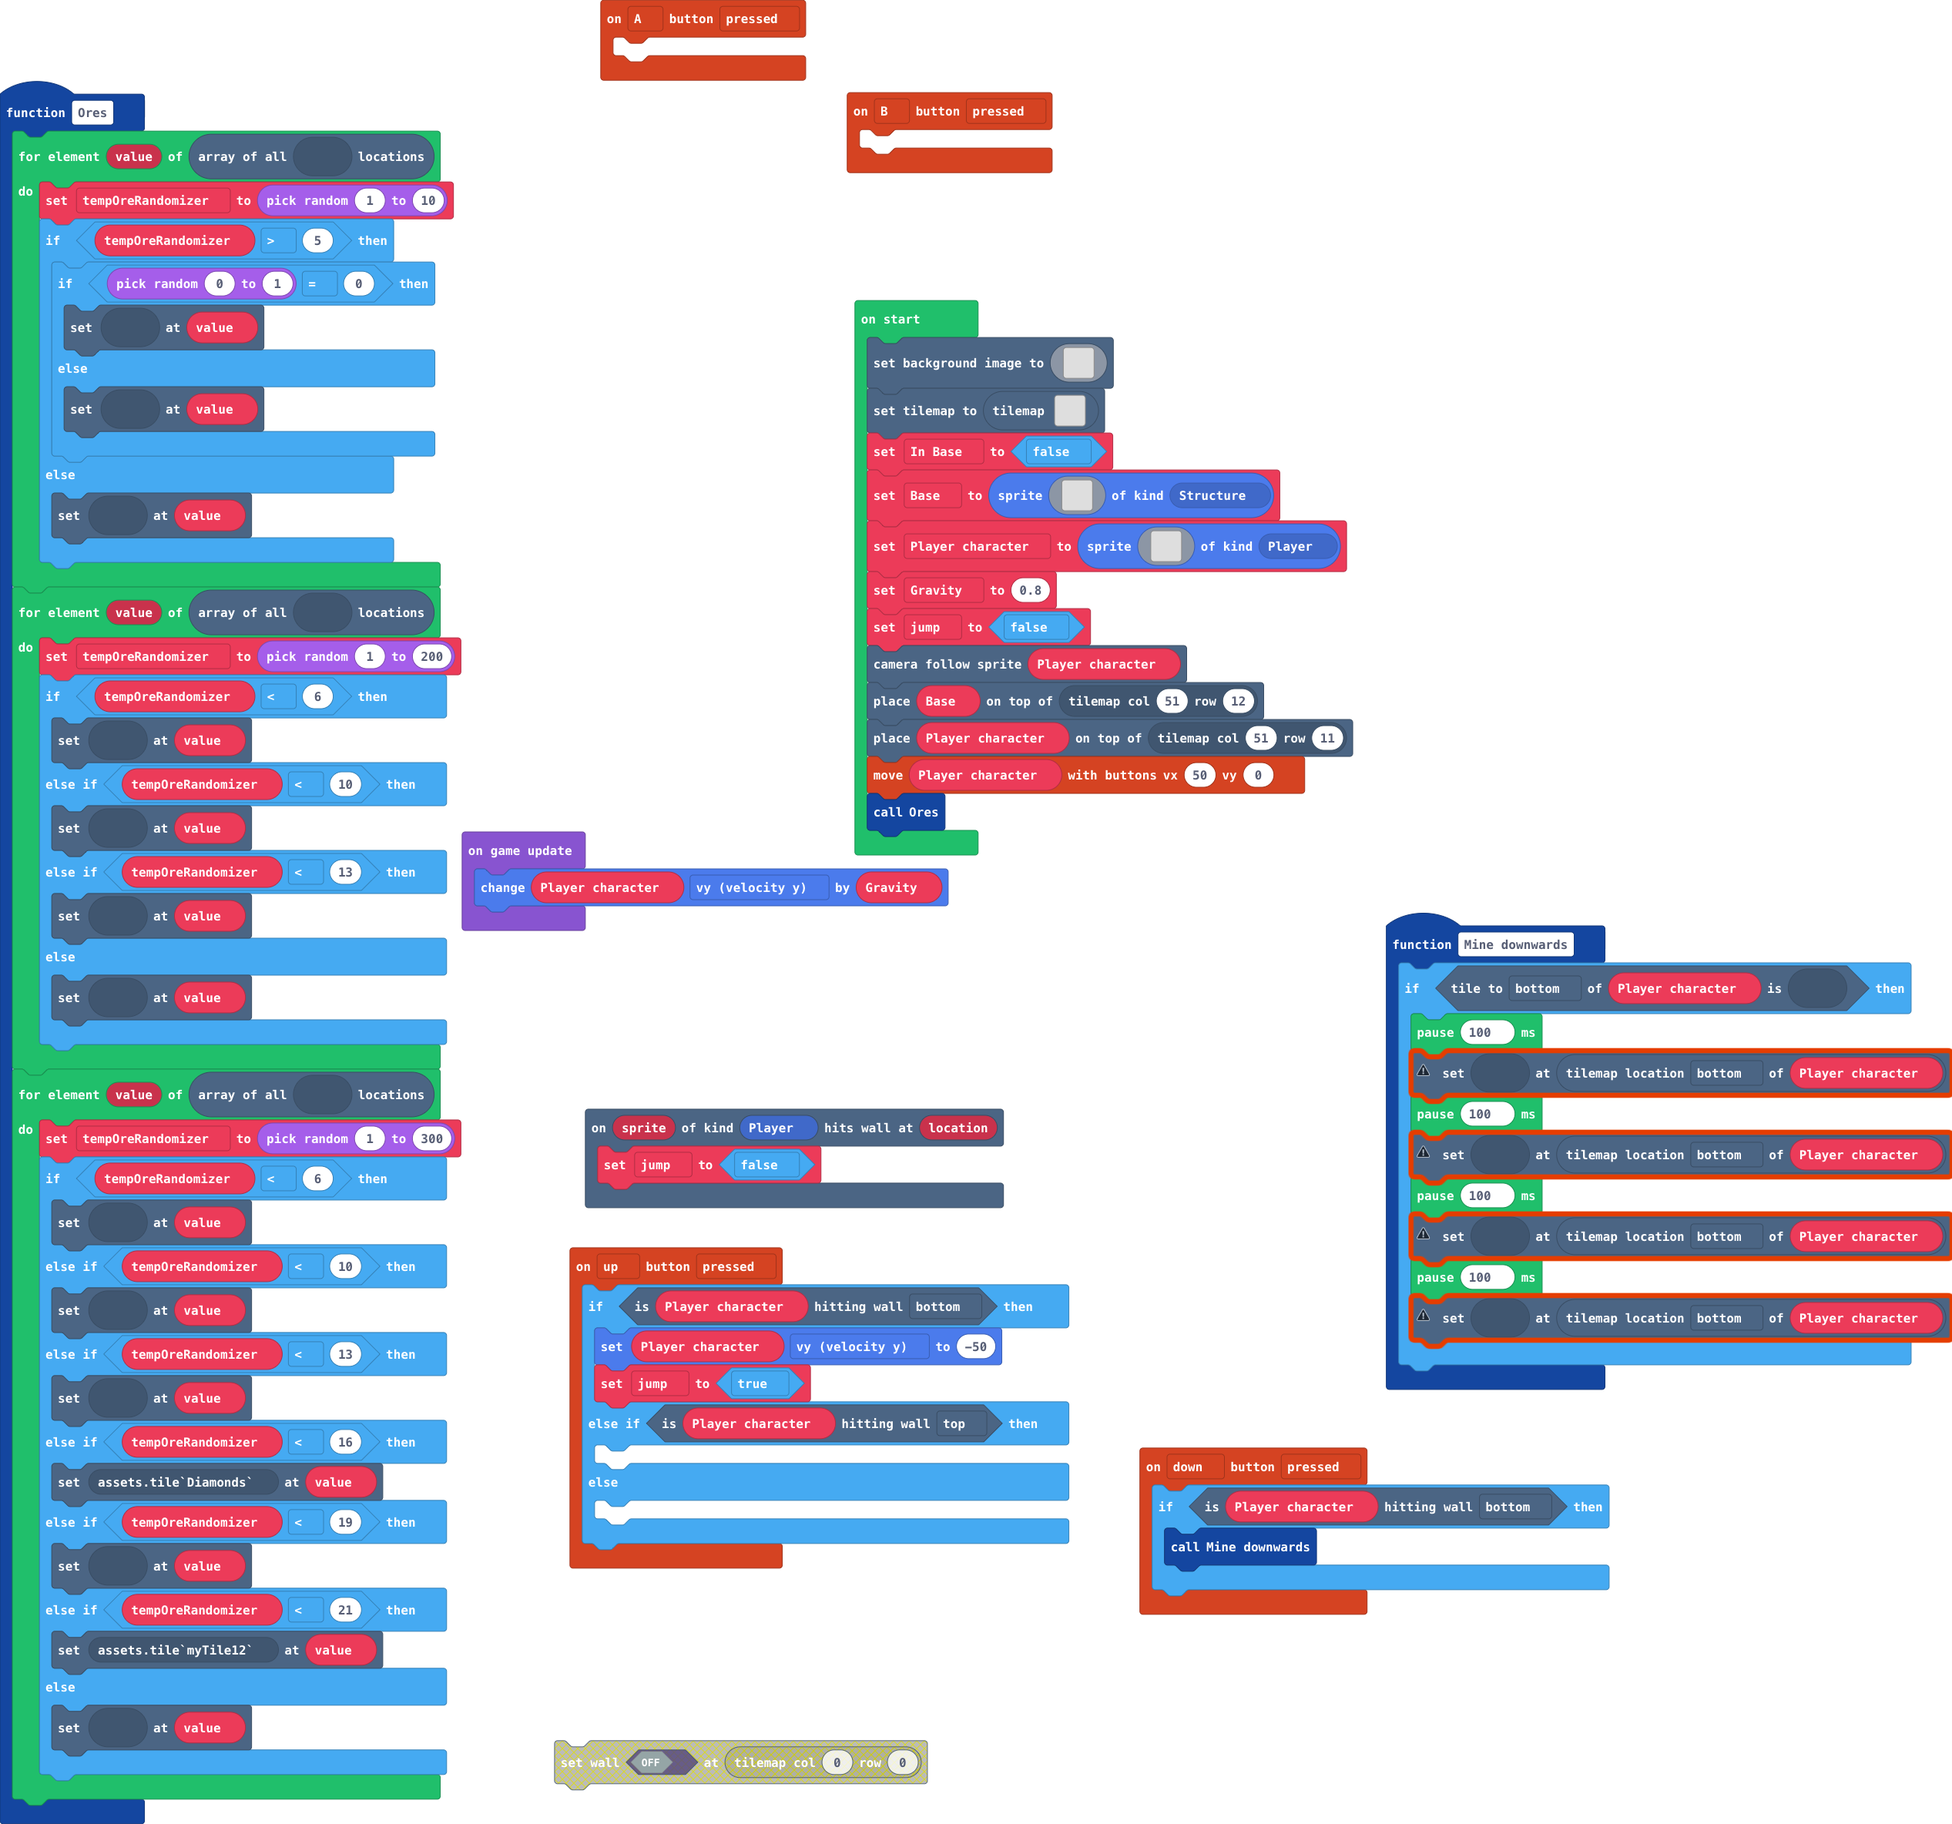
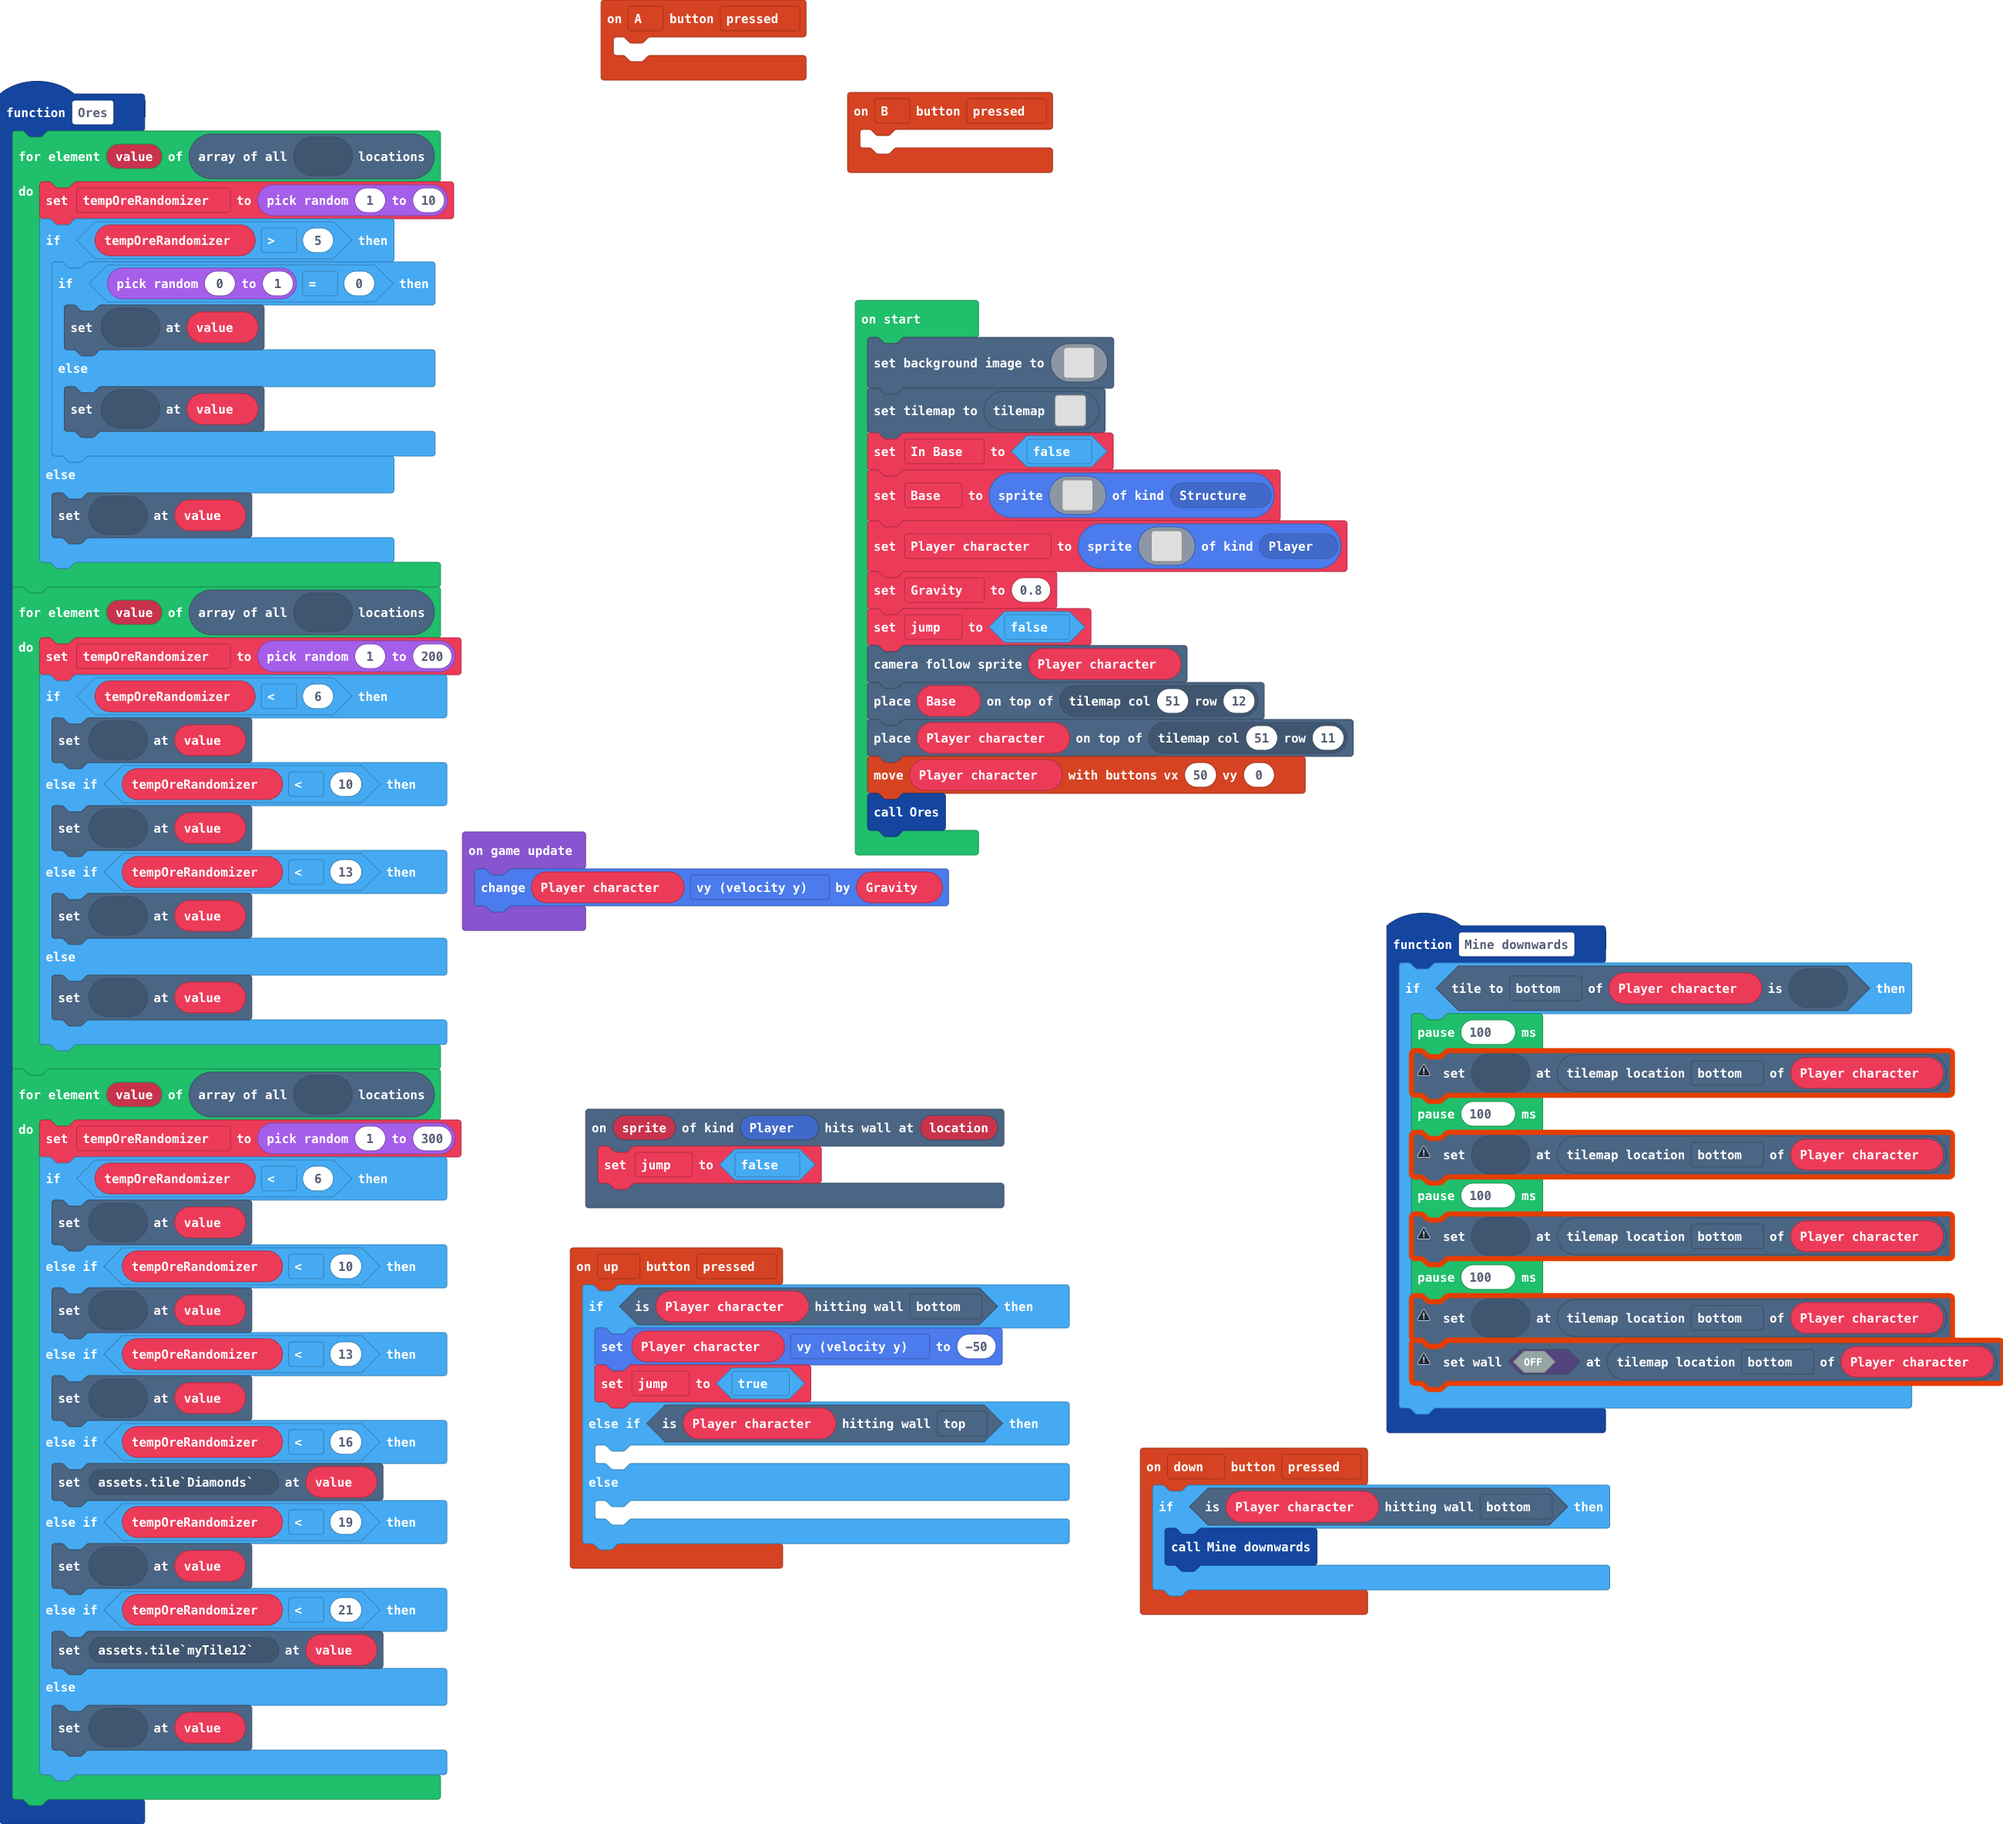
Update main.blocks, main.ts

diff --git a/main.ts b/main.ts
@@ -79,6 +79,7 @@ function Mine_downwards () {
         tiles.setTileAt(Player_character.getNeighboringLocation(CollisionDirection.Bottom), assets.tile`myTile15`)
         pause(100)
         tiles.setTileAt(Player_character.getNeighboringLocation(CollisionDirection.Bottom), assets.tile`myTile8`)
+        tiles.setWallAt(Player_character.getNeighboringLocation(CollisionDirection.Bottom), false)
     }
 }
 let tempOreRandomizer = 0
